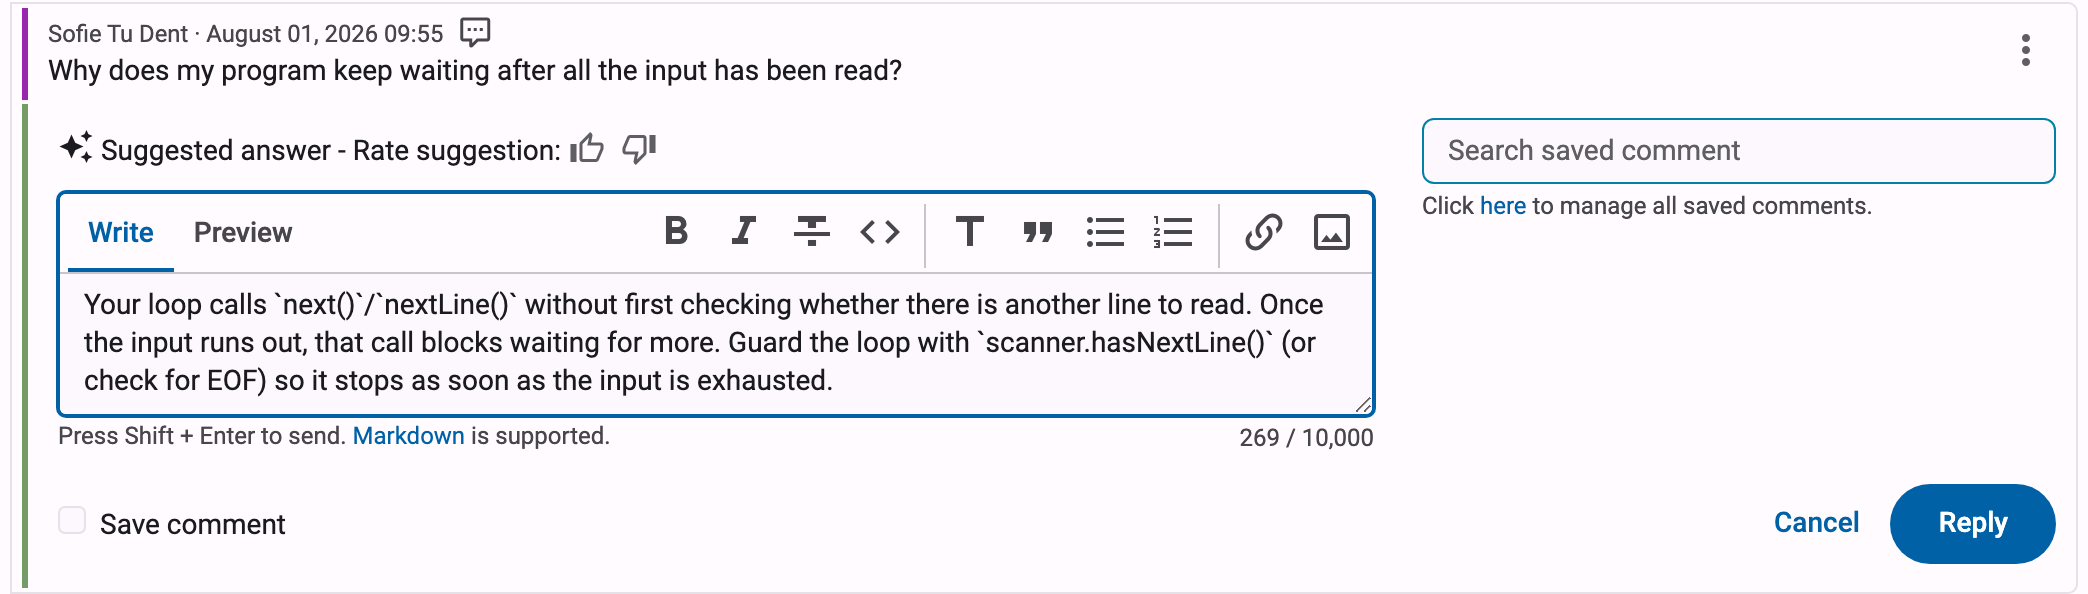
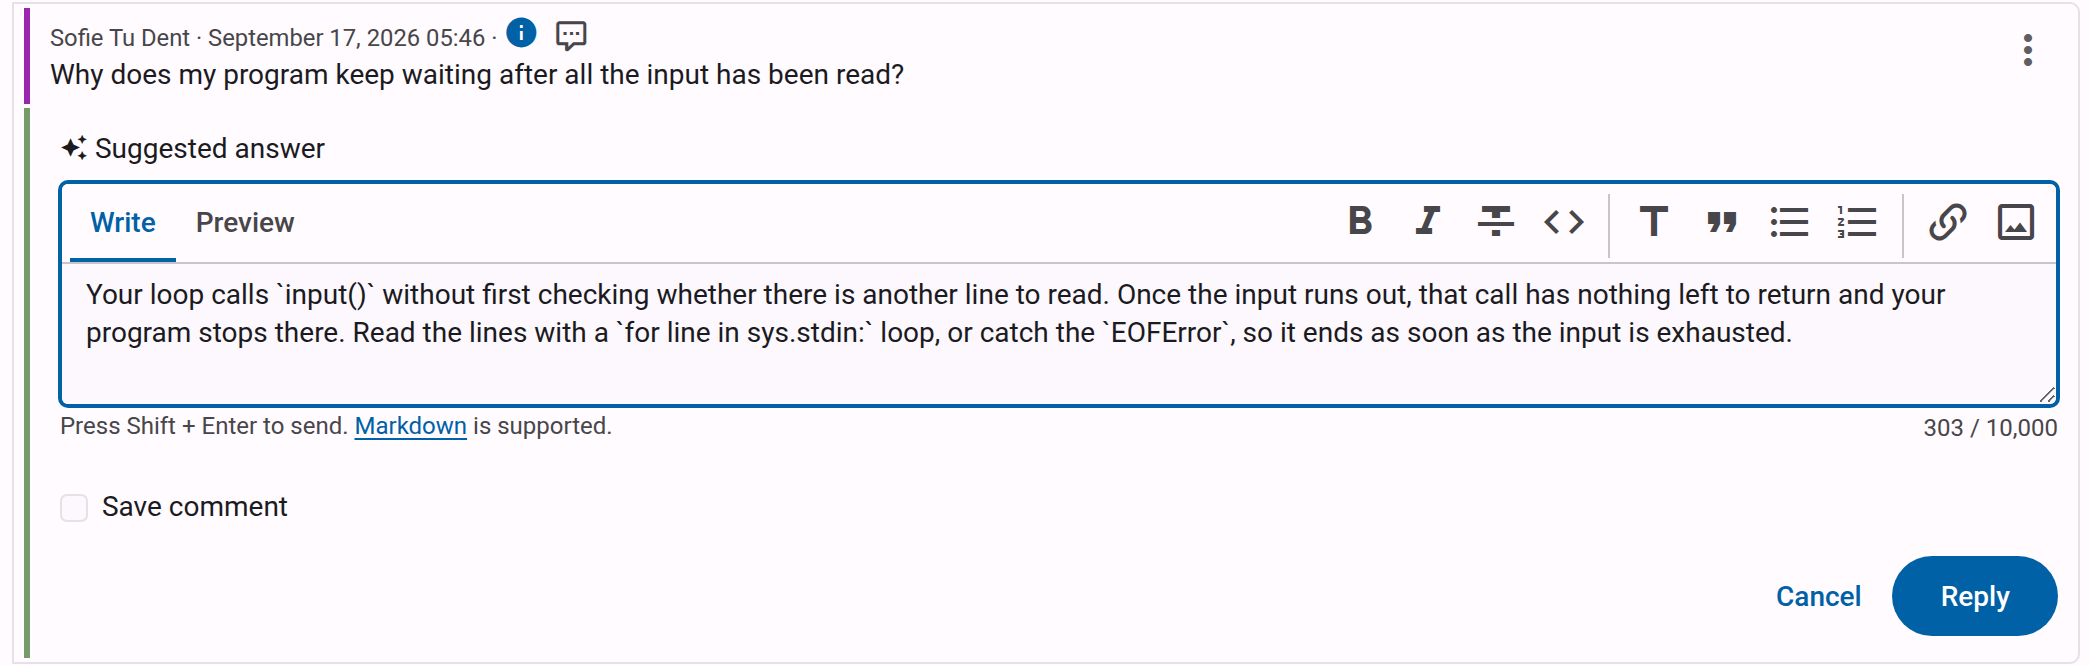
Drop the draft answer rating controls from the AI draft answers FAQ
dodona-edu/dodona#9159 removed the thumbs up/down buttons and the
optional comment field next to an AI suggested answer, and shortened the
label from "Suggested answer - Rate suggestion:" to "Suggested answer".

The FAQ entry described both controls and showed them in two
screenshots, so it now documents UI that no longer exists:

- en/nl faq/annotations: drop the rating paragraph and the
  draft-answer-rated screenshot, and reword the alt text of the
  remaining shot, which no longer shows rating buttons.
- Re-shoot draft-answer-suggested-en/nl.png against the current UI.

The capture system needed the same pass. AI-2 captured the rated state
and is gone with it; hooks/ai-draft-answer.mjs loses its rating branch;
and question-with-draft.setup.rb passed rating: and comment: to
build_llm_response, which raises now that LlmResponse ignores those
columns. That scenario also still pinned submission 1206, which the
seeds no longer create (they stop at 1156), so it is repointed to
submission 557, an equivalent judged, annotation-free Python echo
submission by the same student on course 11. Its seeded question and
draft text move from Java to Python to match.

Claude-Session: https://claude.ai/code/session_01NDvhq3ypnp2ehDxgY7mLda

diff --git a/screenshots/state/question-with-draft.setup.rb b/screenshots/state/question-with-draft.setup.rb
@@ -1,13 +1,15 @@
 # bin/rails runner screenshots/state/question-with-draft.setup.rb [nl]
 #
-# State for the AI-1/AI-2 shots (faq/annotations, "How do AI draft answers work?"):
-# a global (line_nr: nil) Question from Sofie (user 5) on Submission 1206 -- an
-# already-judged "correct" Java echo submission on course 11, with zero pre-existing
-# annotations. That submission id is a stable seeded fixture (like series 51-54), not
-# a fresh row this scenario creates, so -- unlike hooks/assessments.mjs -- no
-# dynamic-id handoff through the shared JSON state file is needed: shots.yaml points
-# straight at /submissions/1206/#code and hooks/ai-draft-answer.mjs only has to drive
-# the reply-form interaction, not navigate to a not-yet-known URL.
+# State for the AI-1 shot (faq/annotations, "How do AI draft answers work?"):
+# a global (line_nr: nil) Question from Sofie (user 5) on Submission 557 -- an
+# already-judged "correct" Python echo submission on course 11, with zero pre-existing
+# annotations. That submission id is a seeded fixture, not a fresh row this scenario
+# creates, so -- unlike hooks/assessments.mjs -- no dynamic-id handoff through the
+# shared JSON state file is needed: shots.yaml points straight at
+# /submissions/557/#code and hooks/ai-draft-answer.mjs only has to drive the
+# reply-form interaction, not navigate to a not-yet-known URL. (This scenario used to
+# pin submission 1206, which the seeds no longer create -- they now stop at 1156.
+# The guard below fails loudly if 557 moves off course 11 too.)
 #
 # Course 11's questions_enabled/draft_answers_enabled are both true (seeded default),
 # so Question#delayed_generate_draft fires DraftResponseJob.perform_later after
@@ -23,17 +25,13 @@
 # <StudentAnswer> portion (LlmResponse#student_answer) is ever sent to the frontend.
 #
 # Pass "nl" as the first argument for the Dutch pass, otherwise EN is used -- same
-# convention as course11-naming.setup.rb, which AI-1/AI-2/AI-3 also depend on and
+# convention as course11-naming.setup.rb, which AI-1 and AI-3 also depend on and
 # which should be run alongside this one for the same pass.
 #
-# Idempotent: destroys any Question left on submission 1206 by a previous run of this
-# scenario (submission 1206 has zero seeded annotations of its own, so clearing all
+# Idempotent: destroys any Question left on submission 557 by a previous run of this
+# scenario (submission 557 has zero seeded annotations of its own, so clearing all
 # of its annotations is always scoped to this scenario's own leftovers) before
-# creating a fresh one. rating starts at not_rated on every run -- AI-2's hook rates
-# it live in the browser (a pure client-side toggle, see state/LlmResponse.ts; it does
-# not PATCH the server until the reply is actually submitted, which the hook never
-# does), so re-running this setup is also how to reset AI-1's "not yet rated" state if
-# AI-2 was captured first in a --id-scoped rerun.
+# creating a fresh one.
 #
 # Verified live: this dev instance has an actual Solid Queue worker running (not just
 # the queue-adapter-inserts-a-row situation described above), so
@@ -50,9 +48,9 @@
 
 locale_nl = ARGV.first == 'nl'
 
-submission = Submission.find(1206) # Sofie, course 11, Java echo exercise, judged "correct"
+submission = Submission.find(557) # Sofie, course 11, Python echo exercise, judged "correct"
 unless submission.course_id == 11
-  raise "submission 1206 has moved to course #{submission.course_id}, expected course 11 -- update this scenario"
+  raise "submission 557 has moved to course #{submission.course_id}, expected course 11 -- update this scenario"
 end
 
 submission.annotations.where(type: 'Question').destroy_all
@@ -83,18 +81,16 @@ ta_note = if locale_nl
 
 student_answer = if locale_nl
                     <<~NL.strip
-                      Je lus roept `next()`/`nextLine()` op zonder eerst te controleren of er nog een regel is om te lezen. Zodra de invoer op is, blijft die aanroep wachten op meer invoer. Bescherm de lus met `scanner.hasNextLine()` (of controleer op EOF) zodat ze stopt zodra de invoer op is.
+                      Je lus roept `input()` op zonder eerst te controleren of er nog een regel is om te lezen. Zodra de invoer op is, heeft die aanroep niets meer om terug te geven en stopt je programma daar. Lees de regels met een `for regel in sys.stdin:`-lus, of vang de `EOFError` op, zodat ze stopt zodra de invoer op is.
                     NL
                   else
                     <<~EN.strip
-                      Your loop calls `next()`/`nextLine()` without first checking whether there is another line to read. Once the input runs out, that call blocks waiting for more. Guard the loop with `scanner.hasNextLine()` (or check for EOF) so it stops as soon as the input is exhausted.
+                      Your loop calls `input()` without first checking whether there is another line to read. Once the input runs out, that call has nothing left to return and your program stops there. Read the lines with a `for line in sys.stdin:` loop, or catch the `EOFError`, so it ends as soon as the input is exhausted.
                     EN
                   end
 
 question.build_llm_response(
-  response: "<TANote>#{ta_note}</TANote>\n<StudentAnswer>\n#{student_answer}\n</StudentAnswer>",
-  rating: :not_rated,
-  comment: nil
+  response: "<TANote>#{ta_note}</TANote>\n<StudentAnswer>\n#{student_answer}\n</StudentAnswer>"
 ).save!
 
 course.update!(draft_answers_enabled: true) # course11-naming / AI-3 need this checked; it's also the seeded default
@@ -102,4 +98,4 @@ course.update!(draft_answers_enabled: true) # course11-naming / AI-3 need this c
 Rails.cache.clear
 
 puts "question-with-draft: Question #{question.id} + LlmResponse #{question.llm_response.id} " \
-     "on Submission 1206 (locale=#{locale_nl ? 'nl' : 'en'})"
+     "on Submission 557 (locale=#{locale_nl ? 'nl' : 'en'})"

diff --git a/screenshots/state/question-with-draft.teardown.rb b/screenshots/state/question-with-draft.teardown.rb
@@ -1,13 +1,13 @@
 # bin/rails runner screenshots/state/question-with-draft.teardown.rb
 #
 # Destroys the Question (and its dependent LlmResponse -- Annotation has_one
-# :llm_response, dependent: :destroy) seeded on Submission 1206 by
-# question-with-draft.setup.rb. Idempotent: submission 1206's id is a stable seeded
+# :llm_response, dependent: :destroy) seeded on Submission 557 by
+# question-with-draft.setup.rb. Idempotent: submission 557's id is a stable seeded
 # fixture (not a dynamically-created row), so there is no shared JSON state file
 # entry to clean up either -- a no-op is simply "0 Questions destroyed".
 
-submission = Submission.find(1206)
+submission = Submission.find(557)
 destroyed = submission.annotations.where(type: 'Question').destroy_all
 Rails.cache.clear
 
-puts "question-with-draft: destroyed #{destroyed.size} Question(s) (+ dependent LlmResponse) on Submission 1206"
+puts "question-with-draft: destroyed #{destroyed.size} Question(s) (+ dependent LlmResponse) on Submission 557"

diff --git a/nl/faq/annotations/index.md b/nl/faq/annotations/index.md
@@ -80,11 +80,7 @@ Wanneer een student een vraag stelt over zijn of haar code, kan Dodona automatis
 
 Als er een conceptantwoord beschikbaar is en nog geen enkele lesgever op de vraag heeft gereageerd, wordt het antwoordveld vooraf ingevuld met het concept. Het is duidelijk gemarkeerd als een voorstel: boven het tekstvak zie je een sterretjesicoon met het label `Voorgesteld antwoord`, en als je over het icoon beweegt, verschijnt de melding `Dit is een conceptopmerking gemaakt door generatieve AI.` Het concept is maar een voorstel: je kan het vrij bewerken, of het wissen en zelf een antwoord schrijven. Er wordt niets naar de student gestuurd tot je zelf het antwoord verstuurt.
 
-![Antwoordveld vooraf ingevuld met het AI-voorgestelde conceptantwoord, met een sterretjesicoon en beoordelingsknoppen boven het tekstvak](./draft-answer-suggested-nl.png)
-
-Naast het label kan je het voorstel beoordelen met de duim omhoog (`Goed antwoord`) of duim omlaag (`Slecht antwoord`). Na het beoordelen verschijnt een optioneel tekstveld waar je je beoordeling kan toelichten. Deze feedback helpt ons om de kwaliteit van de gegenereerde concepten te evalueren, dus we stellen ze erg op prijs.
-
-![Voorgesteld antwoord beoordeeld met duim omhoog, met het optionele tekstveld "Leg je beoordeling uit"](./draft-answer-rated-nl.png)
+![Antwoordveld vooraf ingevuld met het AI-voorgestelde conceptantwoord, met een sterretjesicoon en het label Voorgesteld antwoord boven het tekstvak](./draft-answer-suggested-nl.png)
 
 ::: info Privacy
 Om een concept te genereren stuurt Dodona de vraag, de ingediende code van de student, de opgave van de oefening, de programmeertaal en de gefaalde automatische testresultaten naar een externe AI-provider. De naam van de student en andere accountgegevens worden niet meegestuurd. Studenten zien het gegenereerde concept nooit: het verschijnt enkel in jouw antwoordveld, en enkel de tekst die jij effectief verstuurt, wordt aan de student getoond.

diff --git a/en/faq/annotations/index.md b/en/faq/annotations/index.md
@@ -80,11 +80,7 @@ When a student asks a question about their code, Dodona can automatically genera
 
 If a draft is available and no teacher has replied to the question yet, the reply box is prefilled with the draft. It is clearly marked as a suggestion: above the text box you see a sparkle icon with the label `Suggested answer`, and hovering over the icon shows the note `This is a draft comment generated by generative AI.` The draft is just that — a draft. You can freely edit it, or clear it and write your own answer. Nothing is sent to the student until you post the reply yourself.
 
-![Reply form prefilled with the AI-suggested draft answer, with a sparkle icon and rating buttons above the text box](./draft-answer-suggested-en.png)
-
-Next to the label you can rate the suggestion with the thumbs up (`Good answer`) or thumbs down (`Bad answer`) buttons. After rating, an optional text field appears where you can explain your rating. This feedback helps us evaluate the quality of the generated drafts, so we really appreciate it.
-
-![Suggested answer rated with thumbs up, showing the optional "Explain your rating" comment field](./draft-answer-rated-en.png)
+![Reply form prefilled with the AI-suggested draft answer, with a sparkle icon and the label Suggested answer above the text box](./draft-answer-suggested-en.png)
 
 ::: info Privacy
 To generate a draft, Dodona sends the question, the student's submitted code, the exercise description, the programming language and the failed automatic test results to an external AI provider. The student's name and other account details are not included. Students never see the generated draft: it only appears in your reply form, and only the text you actually post is shown to the student.
